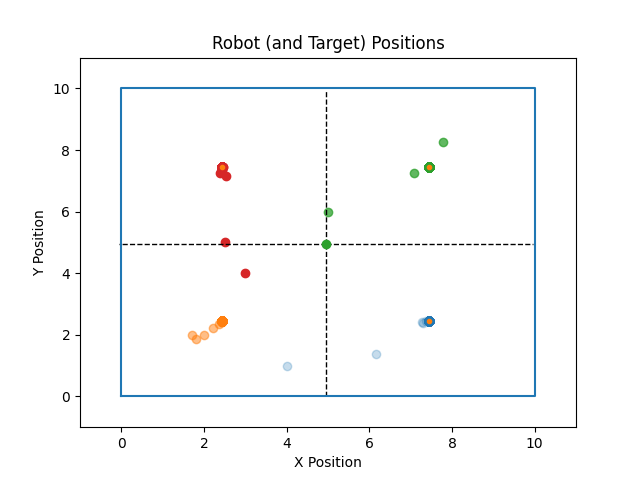
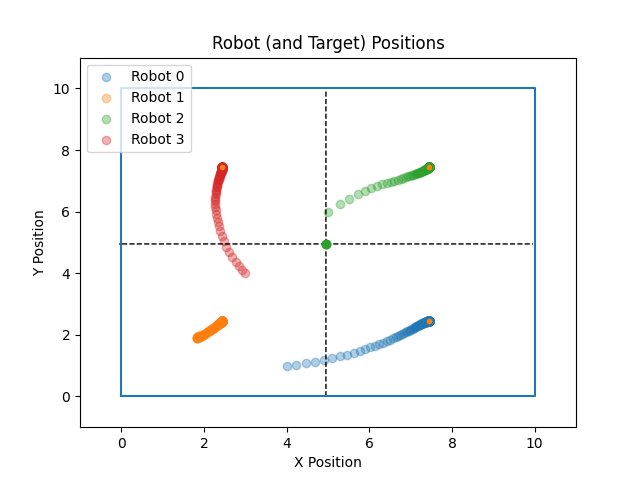
Finished 1A, 1B, 1C, and 1E?

diff --git a/Coverage_and_Consensus/Scripts/coverage.py b/Coverage_and_Consensus/Scripts/coverage.py
@@ -1,3 +1,4 @@
+from logging.config import valid_ident
 import math
 import shapely
 import numpy as np
@@ -8,7 +9,7 @@ from scipy.stats import multivariate_normal
 
 class Robot(object):
 
-    def __init__(self, state, k=1):
+    def __init__(self, state, k=0.1):
         self._state = state     # 2-vec
         self._stoch_state = self._state + np.random.randn(2)
         self.input = [0,0]      # movement vector later
@@ -28,6 +29,7 @@ class Robot(object):
     def state(self):
         return np.array(self._state)
 
+    @property
     def stoch_state(self):
         return np.array(self._stoch_state)
 
@@ -55,6 +57,7 @@ class Environment(object):
 
         self.target = target
 
+    # Define sensing function, f
     def sensing_func(self, state, point):
         # Rename variables
         botx = state[0]
@@ -62,11 +65,29 @@ class Environment(object):
         x = point[0]
         y = point[1]
         # Return Euclidean distance
-        return math.sqrt((botx - x)**2 + (boty - y)**2)
+        dist = math.sqrt((botx - x)**2 + (boty - y)**2)**2
+        return dist
+
+    # Create function to handle cases in which terms are zero
+    def update_if_zero(self, val, tol):
+        if (type(val) is np.ndarray):
+            print("MODIFYING2")
+            updated_val = []
+            comparison_arr = np.isclose(val, np.zeros_like(val), rtol=tol)
+            for idx, is_zero in enumerate(list(comparison_arr)):
+                modified_val = val[idx]
+                if is_zero:
+                    modified_val = tol if val[idx] > 0 else -tol
+                updated_val.append(modified_val)
+        elif math.isclose(val, 0, rel_tol=tol):
+            print("MODIFYING2")
+            updated_val = 1 if val > 0 else -1
+        else:
+            updated_val = val
+        return updated_val
 
     # calc the mixing function for the function aka g_alpha, also record f(p, q) and dist, point is np.array([x,y])
-    # value is the value of the importance function
-    def mix_func(self, point, value=1):  
+    def mix_func(self, point, stoch, value=1):  
         # Define initial g_alpha value 
         g_alpha = 0
         # Create list for f values so they don't need to be recalculated
@@ -74,11 +95,14 @@ class Environment(object):
         # For each robot in environment 
         for bot in self.robots:
             # Get sensing function value
-            f = self.sensing_func(bot.state, point)
-            # Append output of sensing function to f_vals before modification
+            if stoch:
+                f = self.sensing_func(bot.stoch_state, point)
+            else:
+                f = self.sensing_func(bot.state, point)
+            # Append output of sensing function to f_vals
             f_values.append(f)
+            # Raise f to the power of alpha if f is not 0
             if f != 0:
-                # Raise f to the power of alpha
                 f = f**self.alpha
             # Add modified sensing function output to g_alpha
             g_alpha += f
@@ -89,39 +113,42 @@ class Environment(object):
         for index, robot in enumerate(self.robots):
             # Calculate quotient
             quot = (f_values[index] / g_alpha)
+            # Raise quotient to power of (alpha - 1) if it is not 0
             if quot != 0:
-                # Raise quotient to power of alpha - 1
                 quot = quot**(self.alpha - 1)
             # Covert point and robot state to numpy arrays for vector ops
             point_arr = np.array(point)
-            state_arr = np.array(robot.state)
+            if stoch:
+                state_arr = np.array(robot.stoch_state)
+            else:
+                state_arr = np.array(robot.state)
             # Find direction of motion for next iteration
             prod = np.multiply(quot, np.subtract(point_arr, state_arr))
-            # Multiply by importance value
+            # Multiply by importance value and dq
             prod = np.multiply(prod, value)
+            prod = np.multiply(prod, self.res)
             # Updat robot input
             robot.input = np.add(np.array(robot.input), prod).tolist()
 
 
-    def update_gradient(self, iter = 0):
-        '''
-        # Below 5 lines are for 1(B) and 1(C)
-        rv = None
-        if (type(self.target) is np.ndarray):
-            rv =  multivariate_normal(mean = self.target[:, iter], cov = self.cov)
-        else:
-            rv =  multivariate_normal(mean = self.target, cov = self.cov)
-        '''
-
+    def update_gradient(self, part, stoch, iter=0):
+        # Below code was given
+        # Create distributions for importance functions
+        if part != 'A':
+            rv = None
+            if (type(self.target) is np.ndarray):
+                rv =  multivariate_normal(mean = self.target[:, iter], cov = self.cov)
+            else:
+                rv =  multivariate_normal(mean = self.target, cov = self.cov)
+        # Call mixing function for each point in Q
+        # Effectively, integrate over Q, since robot input is being changed in each iteration
         for x in self.pointsx:
             for y in self.pointsy:
                 value = 1
-                '''
-                # Below line is for 1(B)
-                value = rv.pdf((x,y))
-                '''
-
-                self.mix_func(np.array([x, y]), value)
+                if part != 'A': 
+                    value = rv.pdf((x,y))
+                
+                self.mix_func(np.array([x, y]), stoch, value)
 
 
     def moves(self):
@@ -131,20 +158,19 @@ class Environment(object):
 
 
 # function to run the simulation
-def run_grid(env, iter):
+def run_grid(env, iter, part, stoch):
     x = []
     y = []
 
 
     # initialize state
     for i, bot in enumerate(env.robots):
-
         x.append([bot.state[0]])
         y.append([bot.state[1]])
 
     # run environment for iterations
     for k in range(iter):
-        env.update_gradient(k)
+        env.update_gradient(part, stoch, k)
         env.moves()
 
         for i, bot in enumerate(env.robots):
@@ -161,19 +187,25 @@ def run_grid(env, iter):
     # plt the robot points
     plt.axes(ax)
     for i in range(len(env.robots)):
-        plt.scatter(x[i], y[i], alpha=(i+1)/len(env.robots))
+        plt.scatter(x[i], y[i], alpha=max((i+1)/len(x[i]), 0.35), label='Robot '+str(i))
         points.append([x[i][-1], y[i][-1]])
     
+    if len(env.target) != 0:
+        plt.scatter(env.target[0], env.target[1], label='Target')
 
+    '''
     # if there is a target setup plot it
     if(type(env.target) is np.ndarray):
         for i in range(env.target.shape[1]):
-            plt.scatter(env.target[0, i], env.target[1, i], alpha=(i+1)/env.target.shape[1])
-            # Adding below
+            # Changed the alpha such that more recent points are darker for all robots
+            plt.scatter(env.target[0], env.target[1], label='Target')
+    # Nothing to plot in case with no target
     elif len(env.target) == 0:
         pass
+    # Plot single point when target is not numpy array
     else:
-        plt.scatter(env.target[0], env.target[1])
+        plt.scatter(env.target[0], env.target[1], label='Target')
+    '''
 
 
     # set polygon bounds
@@ -190,12 +222,24 @@ def run_grid(env, iter):
     plt.title("Robot (and Target) Positions")
     plt.xlabel("X Position")
     plt.ylabel("Y Position")
+    plt.legend(loc='upper left')
     plt.show()
     
 # generate target points
 def target(iter):
+    pi = np.pi
+    # Create points for range of circle function
+    theta = np.linspace(0, (2 * pi) * (iter / 800), iter)
+    
+    # Define circle radius
+    radius = 3
 
-    raise NotImplementedError
+    # Calculate coordinates
+    x = radius * np.cos(theta) + 5
+    y = radius * np.sin(theta) + 5
+
+    return np.array([x, y])
+
 
 if __name__ == "__main__":
     iter = 200
@@ -204,30 +248,21 @@ if __name__ == "__main__":
     rob3 = Robot([5, 6], 0.5)
     rob4 = Robot([3, 4], 0.5)
     robots = [rob1, rob2, rob3, rob4]
-    
-    # Below line is for 1(A)
-    env = Environment(10, 10, 0.1, robots)
-    
-    
-    '''
-    # Below line is for 1(B)
-    env = Environment(10, 10, 0.1, robots, target=(5,5))
-    '''
-    
 
-    '''
-    # Doing 1(C) below
-    pi = np.pi
-    theta = np.linspace(0, (2 * pi) * (iter / 800), iter)
+    # Create variable for which part of question #1 is being considered
+    part = 'A'
+    # Create variable indicating whether the system is stochastic
+    stoch = False
 
-    radius = 3
+    if part == 'A':
+        env = Environment(10, 10, 0.1, robots)
+    elif part == 'B':
+        env = Environment(10, 10, 0.1, robots, target=(5,5))
+    else:
+        # Define dynamic, quarter-circle target with period 800
+        dyn_target = target(iter)
 
-    x = radius * np.cos(theta) + 5
-    y = radius * np.sin(theta) + 5
+        env = Environment(10, 10, 0.1, robots, target=dyn_target)
 
-    target1 = np.array([x, y])
-
-    env = Environment(10, 10, 0.1, robots, target=target1)
-    '''
-
-    run_grid(env, iter)
+    # Note: The "part" and stoch arguments were added for easier use and eval
+    run_grid(env, iter, part, stoch)
